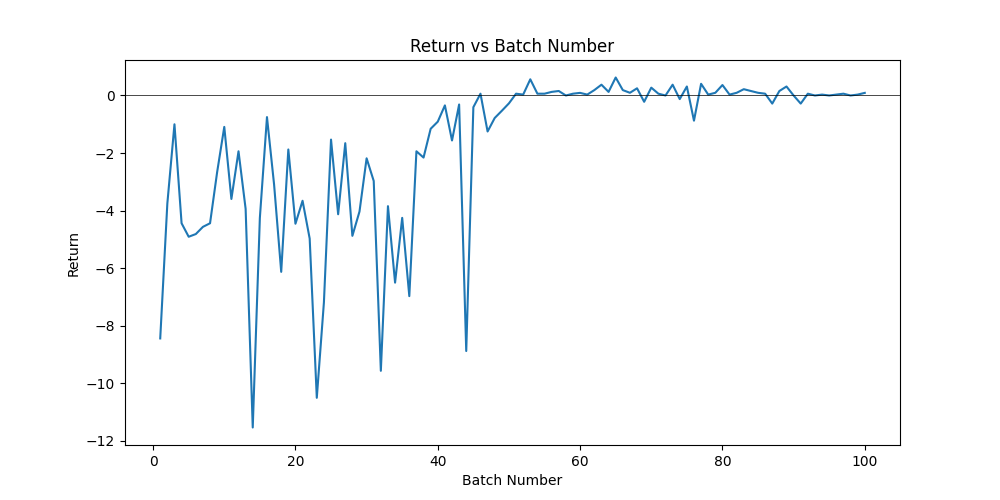
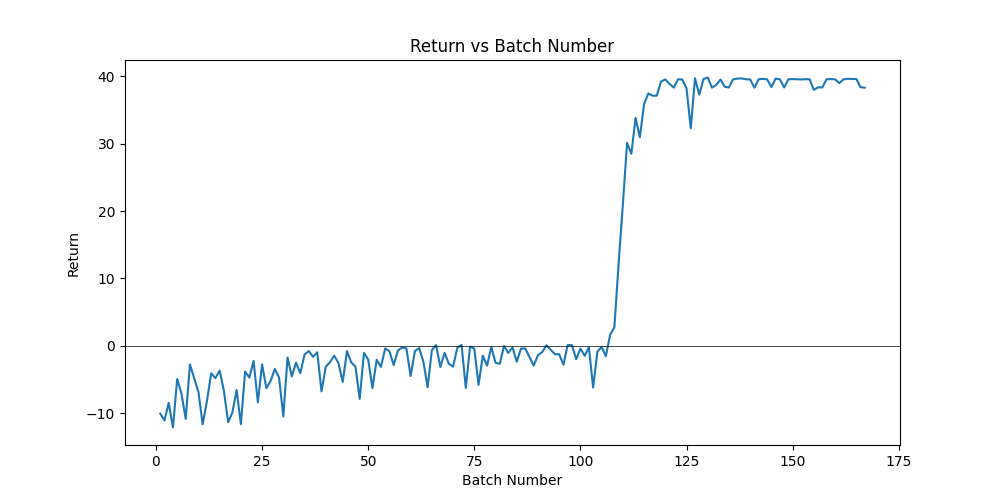
return history graph

diff --git a/train/train.py b/train/train.py
@@ -53,14 +53,9 @@ batch_size = 32
 
 
 total_time = 0
-
 returns = []
 total_time = 0
-
-
-
-
-
+eval_times = []
 
 for epoch in range(num_epochs):
     # Shuffle the dataset
@@ -84,14 +79,16 @@ for epoch in range(num_epochs):
         total_time += batch_time
         
         returns.append(avg_return)
+        avg_eval_time = batch_time / batch_size  # Calculate average evaluation time per expression
+        eval_times.append(avg_eval_time)
         
         batch_number = epoch * (len(shuffled_data) // batch_size) + (i // batch_size) + 1
-        print(f"Epoch {epoch + 1}/{num_epochs}, Batch {batch_number}, Return: {avg_return:.4f}, Batch Time: {batch_time:.4f} seconds")
+        print(f"Epoch {epoch + 1}/{num_epochs}, Batch {batch_number}, Return: {avg_return:.4f}, Batch Time: {batch_time:.4f} seconds, Avg Eval Time: {avg_eval_time:.4f} seconds")
 
 avg_time_per_batch = total_time / (num_epochs * (len(df) // batch_size))
 print(f"Training completed. Average time per batch: {avg_time_per_batch:.4f} seconds")
 
-# Plot the loss history
+# Plot the return history
 plt.figure(figsize=(10, 5))
 plt.plot(range(1, len(returns) + 1), returns)
 plt.title('Return vs Batch Number')
@@ -100,3 +97,37 @@ plt.ylabel('Return')
 plt.axhline(y=0, color='k', linestyle='-', linewidth=0.5)  # Add horizontal line at y=0
 plt.savefig(ROOT_DIR + '/train/return_history.png')
 
+# Plot the evaluation time history
+plt.figure(figsize=(10, 5))
+plt.plot(range(1, len(eval_times) + 1), eval_times)
+plt.title('Average Evaluation Time per Expression vs Batch Number')
+plt.xlabel('Batch Number')
+plt.ylabel('Average Evaluation Time (seconds)')
+plt.savefig(ROOT_DIR + '/train/eval_time_history.png')
+
+
+# Plot both return and evaluation time on the same graph
+plt.figure(figsize=(12, 6))
+
+# Plot return
+plt.plot(range(1, len(returns) + 1), returns, label='Return', color='blue')
+plt.ylabel('Return', color='blue')
+plt.tick_params(axis='y', labelcolor='blue')
+
+# Create a twin axis for evaluation time
+ax2 = plt.twinx()
+ax2.plot(range(1, len(eval_times) + 1), eval_times, label='Avg Eval Time', color='red')
+ax2.set_ylabel('Average Evaluation Time (seconds)', color='red')
+ax2.tick_params(axis='y', labelcolor='red')
+
+plt.title('Return and Average Evaluation Time vs Batch Number')
+plt.xlabel('Batch Number')
+
+# Add legend
+lines1, labels1 = plt.gca().get_legend_handles_labels()
+lines2, labels2 = ax2.get_legend_handles_labels()
+ax2.legend(lines1 + lines2, labels1 + labels2, loc='upper left')
+
+plt.axhline(y=0, color='k', linestyle='-', linewidth=0.5)  # Add horizontal line at y=0
+plt.tight_layout()  # Adjust layout to prevent clipping of labels
+plt.savefig(ROOT_DIR + '/train/return_and_eval_time_history.png')
